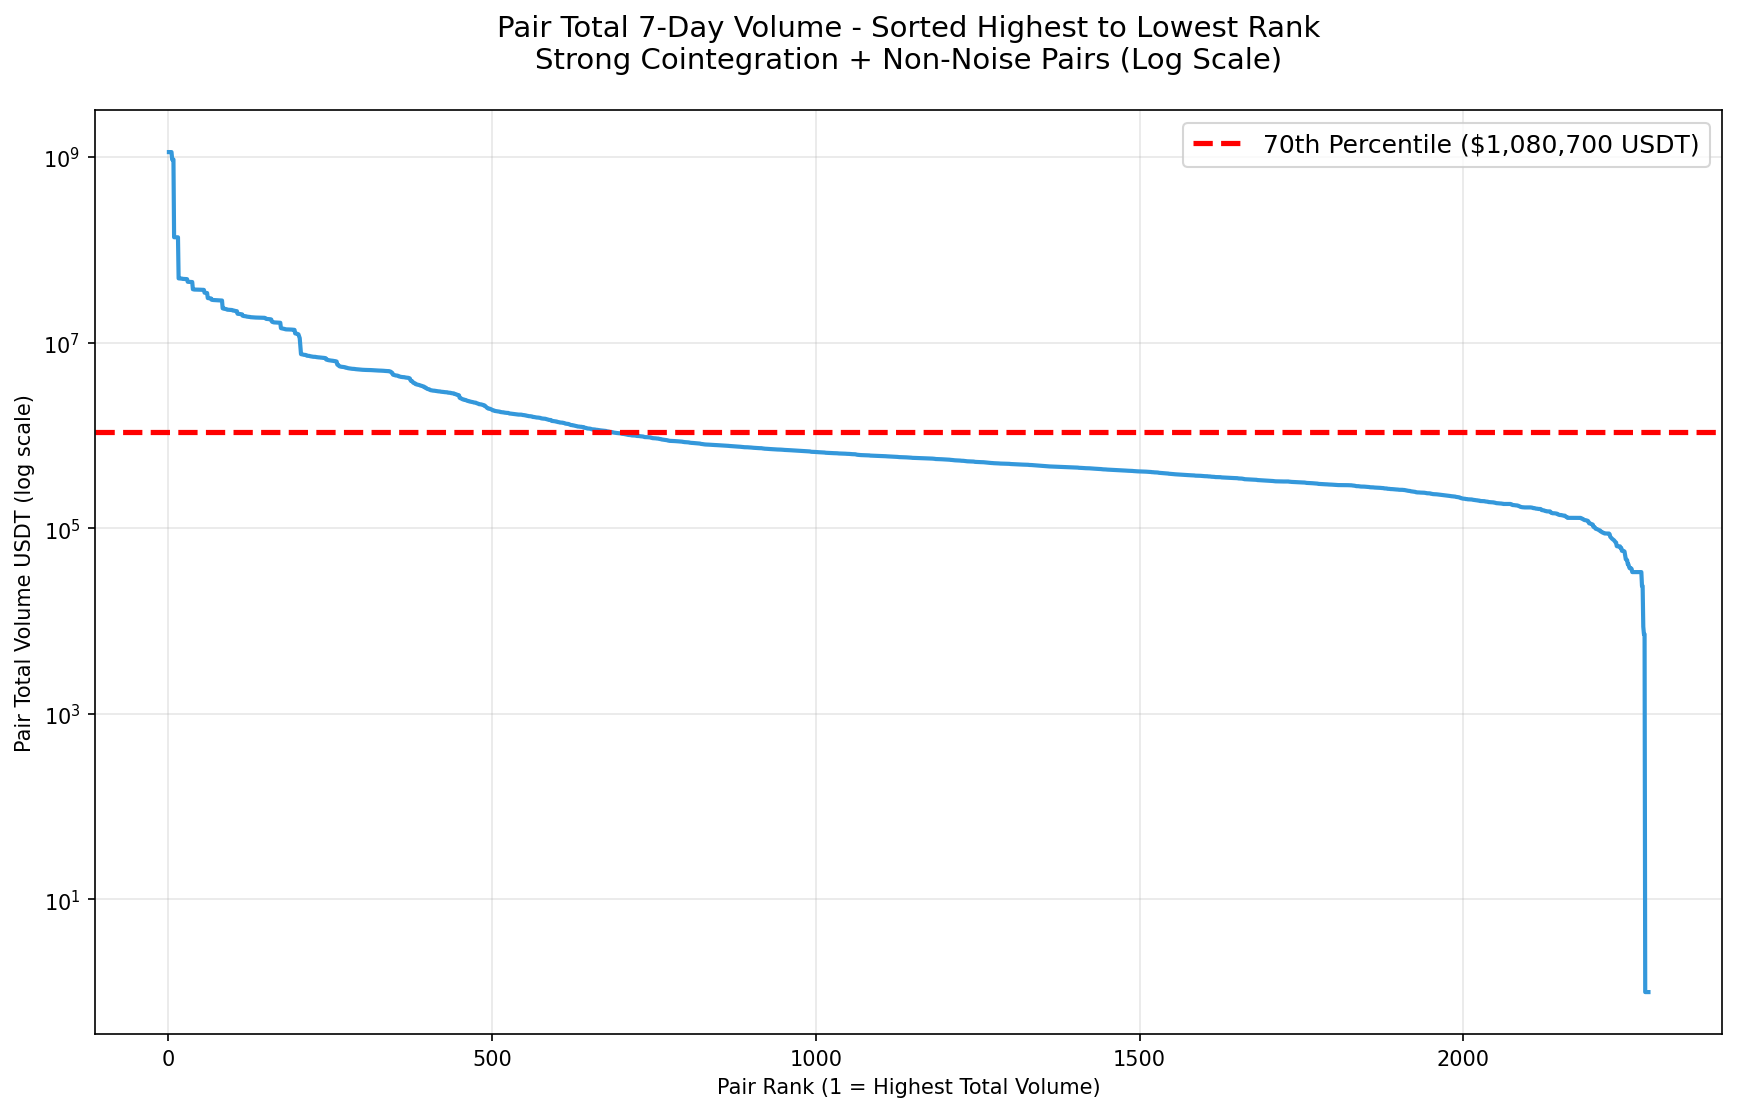
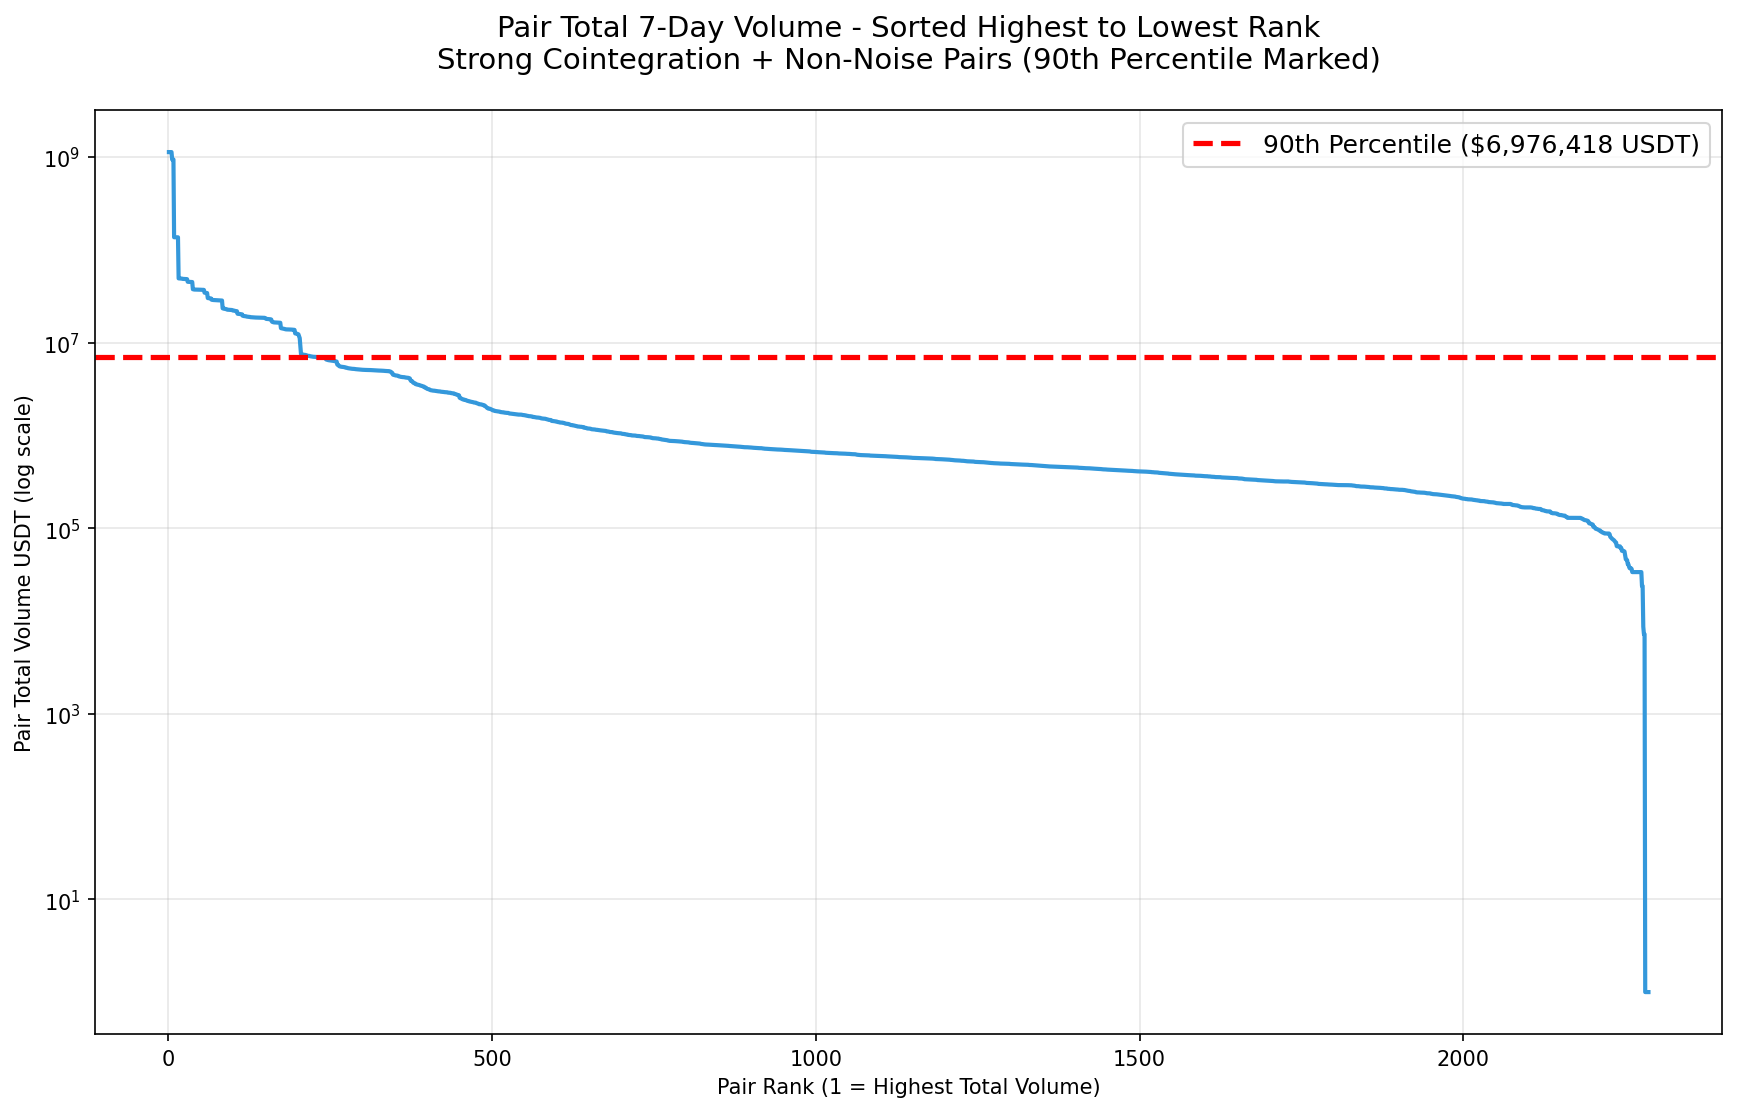
90th percentile for volume

diff --git a/src/pcv2/filter_by_volume.py b/src/pcv2/filter_by_volume.py
@@ -3,7 +3,14 @@ import requests
 import time
 import os
 import matplotlib.pyplot as plt
-import numpy as np   # ← added for safe log handling
+import numpy as np
+
+# ====================== CONFIG (change this one line!) ======================
+PERCENTILE = 90          # ←←← CHANGE THIS TO WHATEVER YOU WANT
+                         # Examples: 70, 80, 90, 95, 99, 99.9
+                         # The script will automatically mark this percentile
+                         # on the chart and update all titles/labels
+# ===========================================================================
 
 def get_mexc_7d_avg_volume(symbol):
     if pd.isna(symbol) or str(symbol).strip() == '':
@@ -113,18 +120,22 @@ if __name__ == "__main__":
     df = df.sort_values(by='pair_total_7d_vol_usdt', ascending=False).reset_index(drop=True)
     
     volumes = df['pair_total_7d_vol_usdt']
-    p70 = volumes.quantile(0.70)
-    print(f"📈 70th percentile total volume: ${p70:,.0f} USDT")
+    percentile_fraction = PERCENTILE / 100.0
+    p_value = volumes.quantile(percentile_fraction)
+    print(f"📈 {PERCENTILE}th percentile total volume: ${p_value:,.0f} USDT")
     
-    print("📈 Generating sorted rank chart (log scale)...")
+    print(f"📈 Generating sorted rank chart ({PERCENTILE}th percentile, log scale)...")
     plt.figure(figsize=(14, 8), dpi=150)
     ranks = range(1, len(df) + 1)
-    plot_volumes = np.maximum(volumes, 1)  # safe log — avoids log(0) error
+    plot_volumes = np.maximum(volumes, 1)
     plt.plot(ranks, plot_volumes, linewidth=2, color='#3498db')
-    plt.axhline(p70, color='red', linestyle='--', linewidth=2.5, label=f'70th Percentile (${p70:,.0f} USDT)')
+    plt.axhline(p_value, color='red', linestyle='--', linewidth=2.5, 
+                label=f'{PERCENTILE}th Percentile (${p_value:,.0f} USDT)')
     plt.yscale('log')
     
-    plt.title('Pair Total 7-Day Volume - Sorted Highest to Lowest Rank\nStrong Cointegration + Non-Noise Pairs (Log Scale)', fontsize=14, pad=20)
+    plt.title(f'Pair Total 7-Day Volume - Sorted Highest to Lowest Rank\n'
+              f'Strong Cointegration + Non-Noise Pairs ({PERCENTILE}th Percentile Marked)', 
+              fontsize=14, pad=20)
     plt.xlabel('Pair Rank (1 = Highest Total Volume)')
     plt.ylabel('Pair Total Volume USDT (log scale)')
     plt.legend(fontsize=12)
@@ -139,6 +150,6 @@ if __name__ == "__main__":
     # Save (or re-save) the CSV
     df.to_csv(output_file, index=False)
     print(f"\n✅ DONE! Final file: {output_file} ({len(df):,} rows, sorted highest → lowest)")
-    print(f"   Chart: {chart_file} (now on log scale as requested)")
+    print(f"   Chart: {chart_file} ({PERCENTILE}th percentile marked)")
     if skip_fetch:
         print("   (Used existing volume data — no new API calls)")
